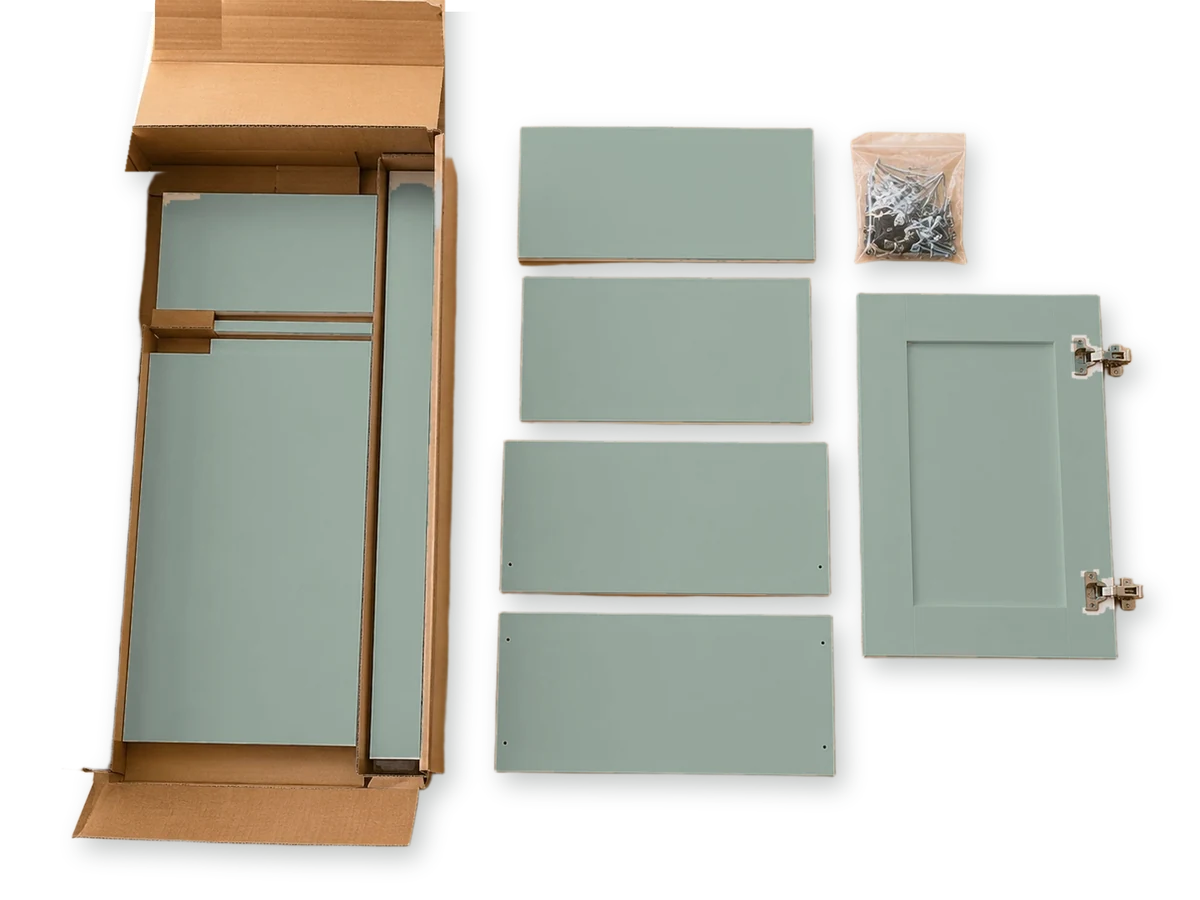
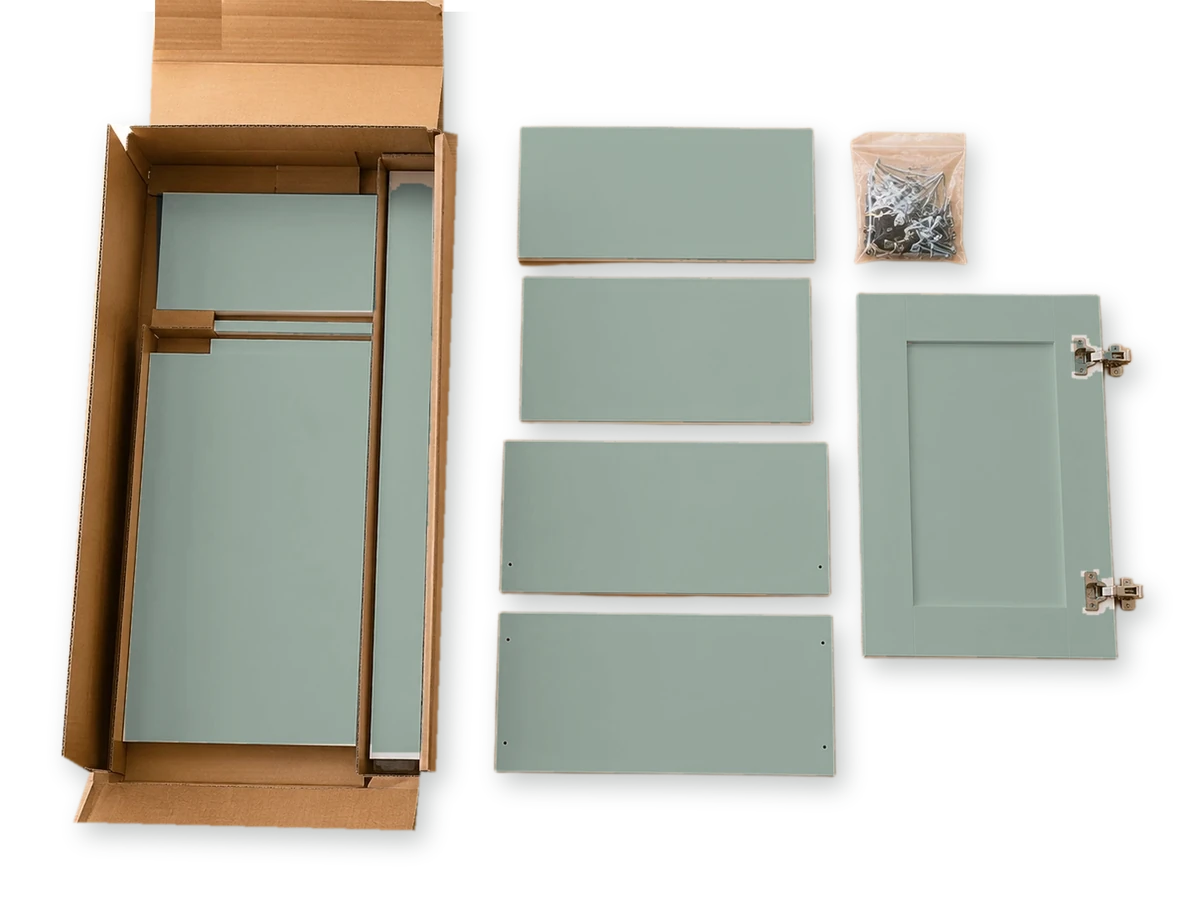
RTA picture: carton outlined by hand so its walls stay whole; boards fully repainted
Claude-Session: https://claude.ai/code/session_01NcvMJ4eJBQYofiUQ3wfmdX

Changed region(s): [[0.0308, 0.0933, 0.37, 0.9644], [0.3083, 0.1867, 0.4008, 0.8711], [0.37, 0.1244, 0.4008, 0.1867]]

diff --git a/index.html b/index.html
@@ -128,7 +128,7 @@
           <img src="img/workshop.webp" alt="" loading="lazy">
           <img src="img/factory-aerial.webp" alt="" loading="lazy">
           <img src="img/p/aurora-lounge-chair/aurora-lounge-chair-1.webp" alt="" loading="lazy">
-          <img src="img/rta.webp?v=3" alt="" loading="lazy" class="art">
+          <img src="img/rta.webp?v=4" alt="" loading="lazy" class="art">
         </div>
         <ul class="why-list">
           <li class="on"><h3>35+ years in wood</h3><p>From a small woodworking shop in 1990 to a full factory: three decades of experience behind every product we make.</p></li>
